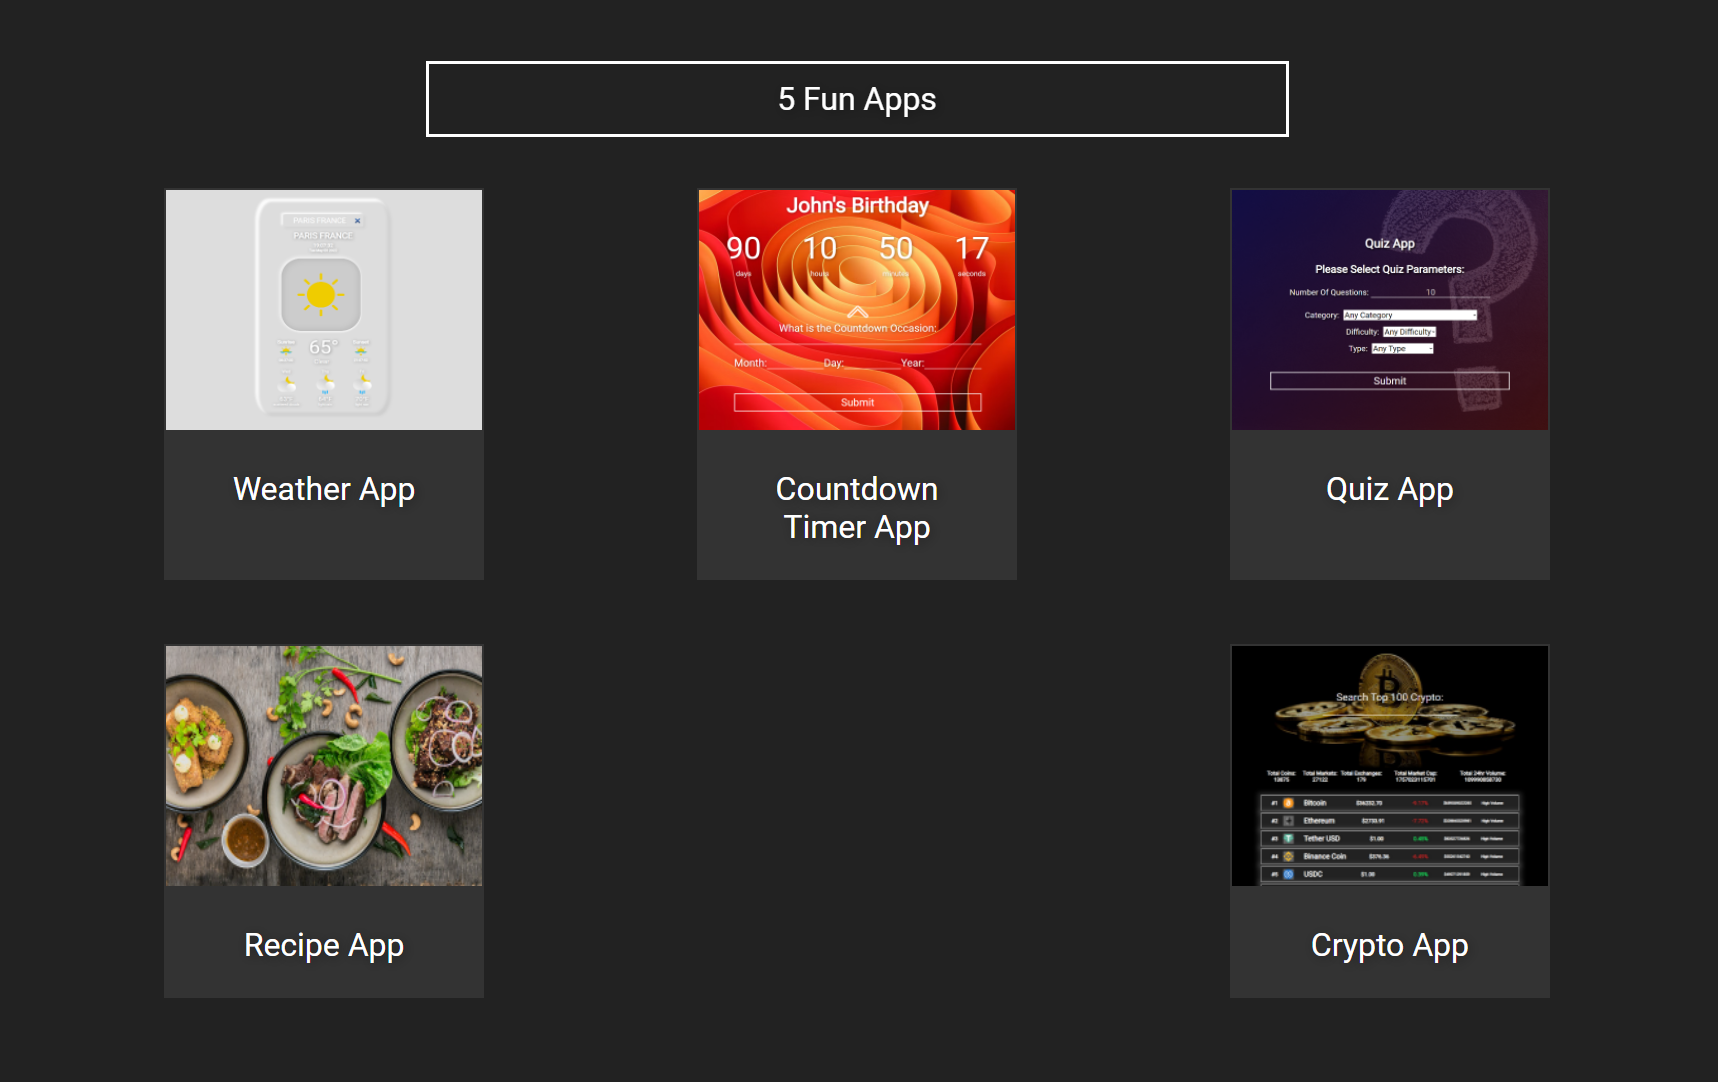
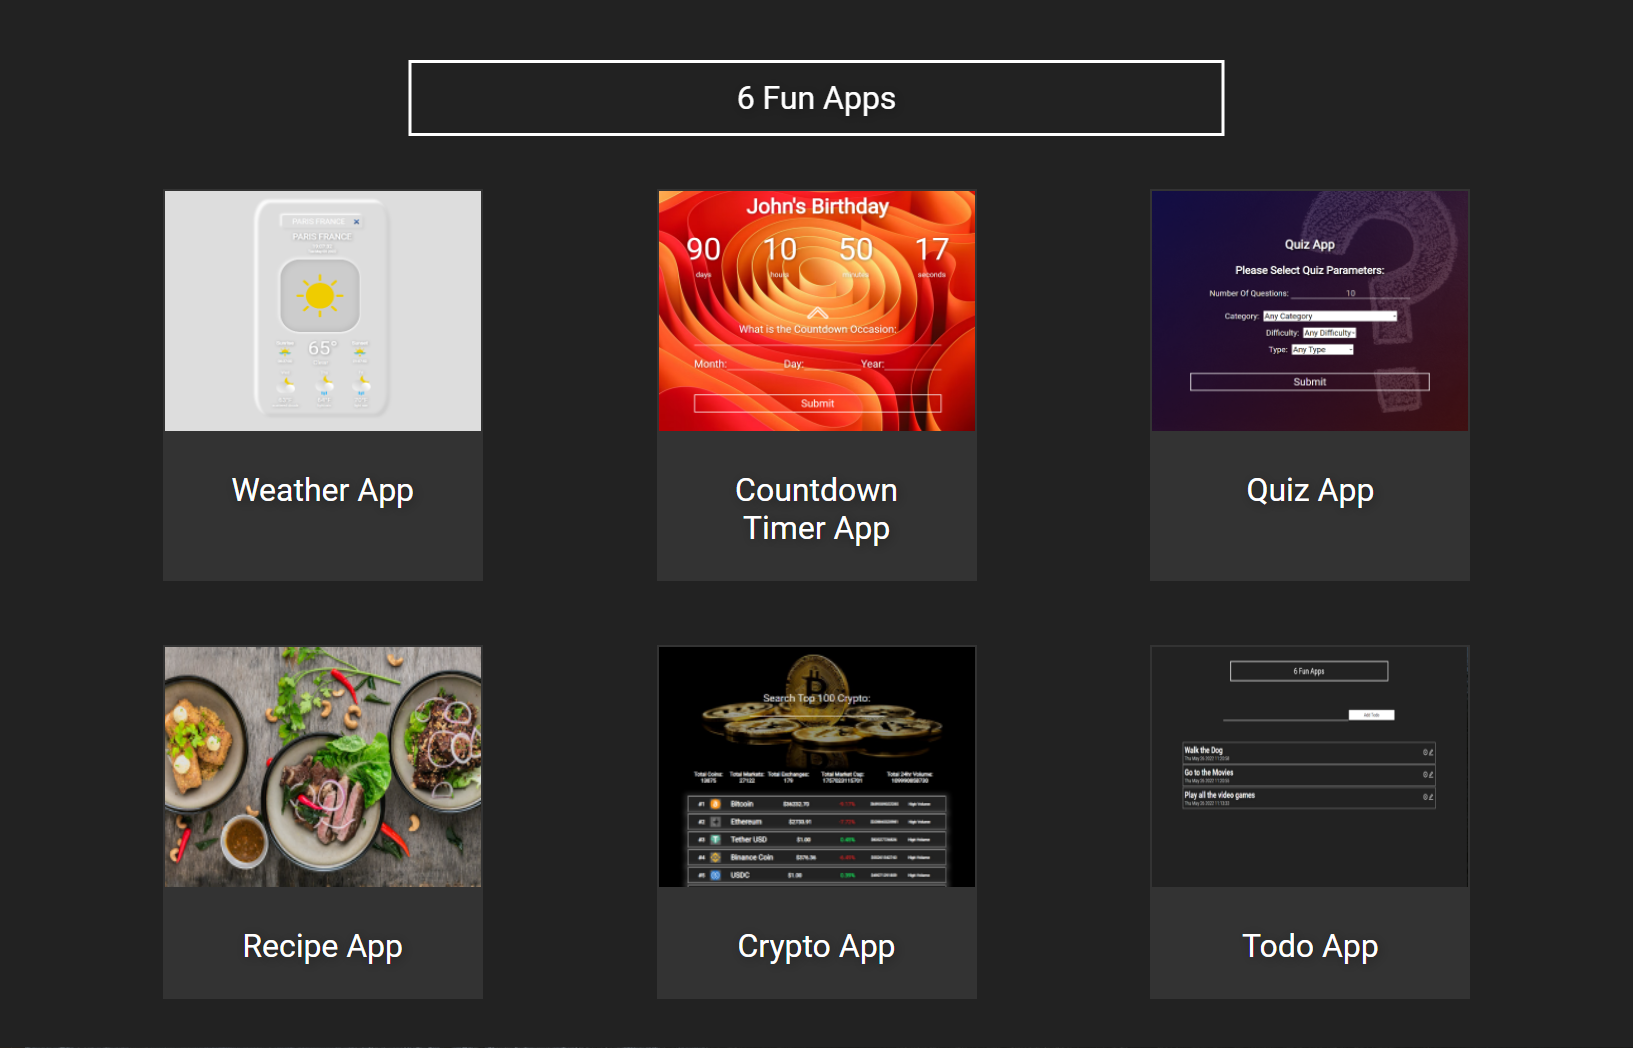
modified:   ../john-kirch/img/multi-apps.png modified:   ../john-kirch/index.html

diff --git a/john-kirch/index.html b/john-kirch/index.html
@@ -147,7 +147,7 @@
               <li>
                   <div class="projects__box">
                     <div class="projects__text">
-                      <p class="projects__text--name">5 Fun small Apps</p>
+                      <p class="projects__text--name">6 Fun small Apps</p>
                       <p class="projects__text--tech">React and API's</p>
                     </div>
                     <a
